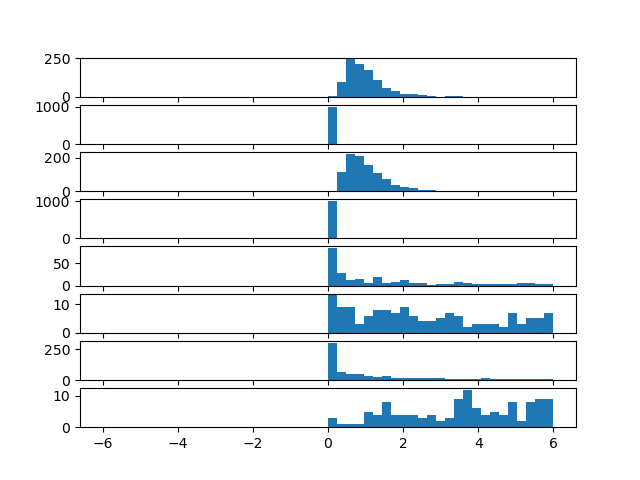
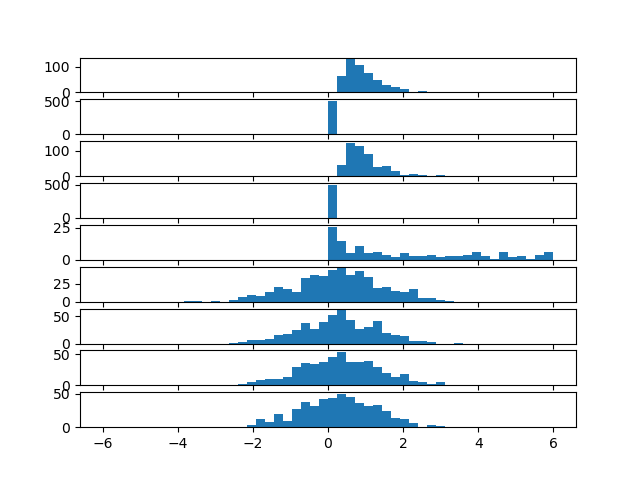
generic commit

diff --git a/scripts/transport/c_transport.py b/scripts/transport/c_transport.py
@@ -533,7 +533,7 @@ def conditional_transport_exp(ref_gen, target_gen, N = 1000, n_iter = 1001, slic
 
 def lokta_vol_exp(N = 10000, n_iter = 10000, Yd = 4):
     ref_gen = lambda n: sample_normal(n, Yd)
-    target_gen = lambda N: get_VL_data(N, Yd = Yd)
+    target_gen = lambda N: normalize(get_VL_data(N, Yd = Yd))
 
     idx_dict = {'ref': list(range(Yd)),
                 'cond': [list(range(i + 4)) for i in range(Yd)],
